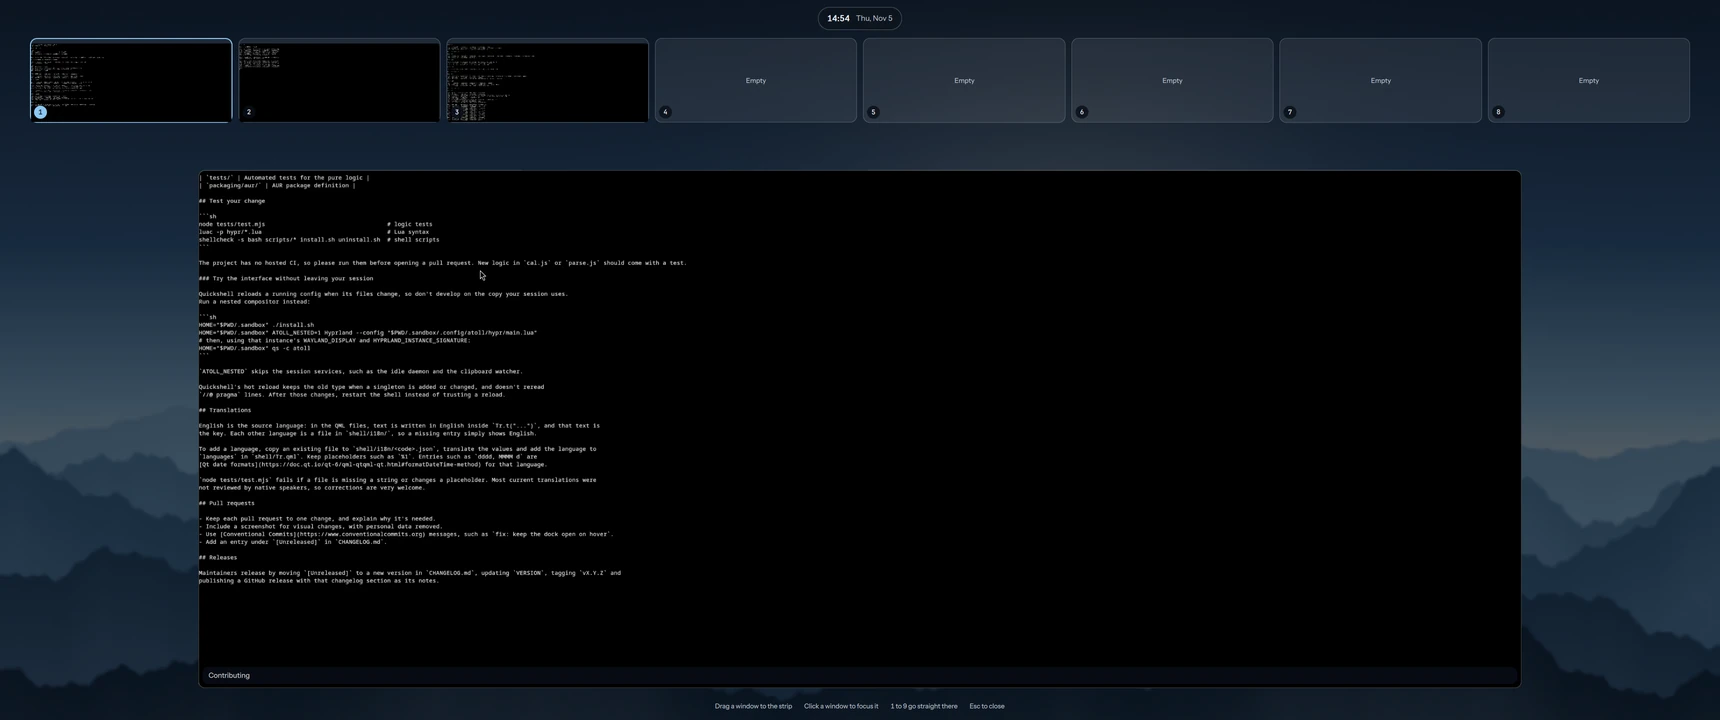
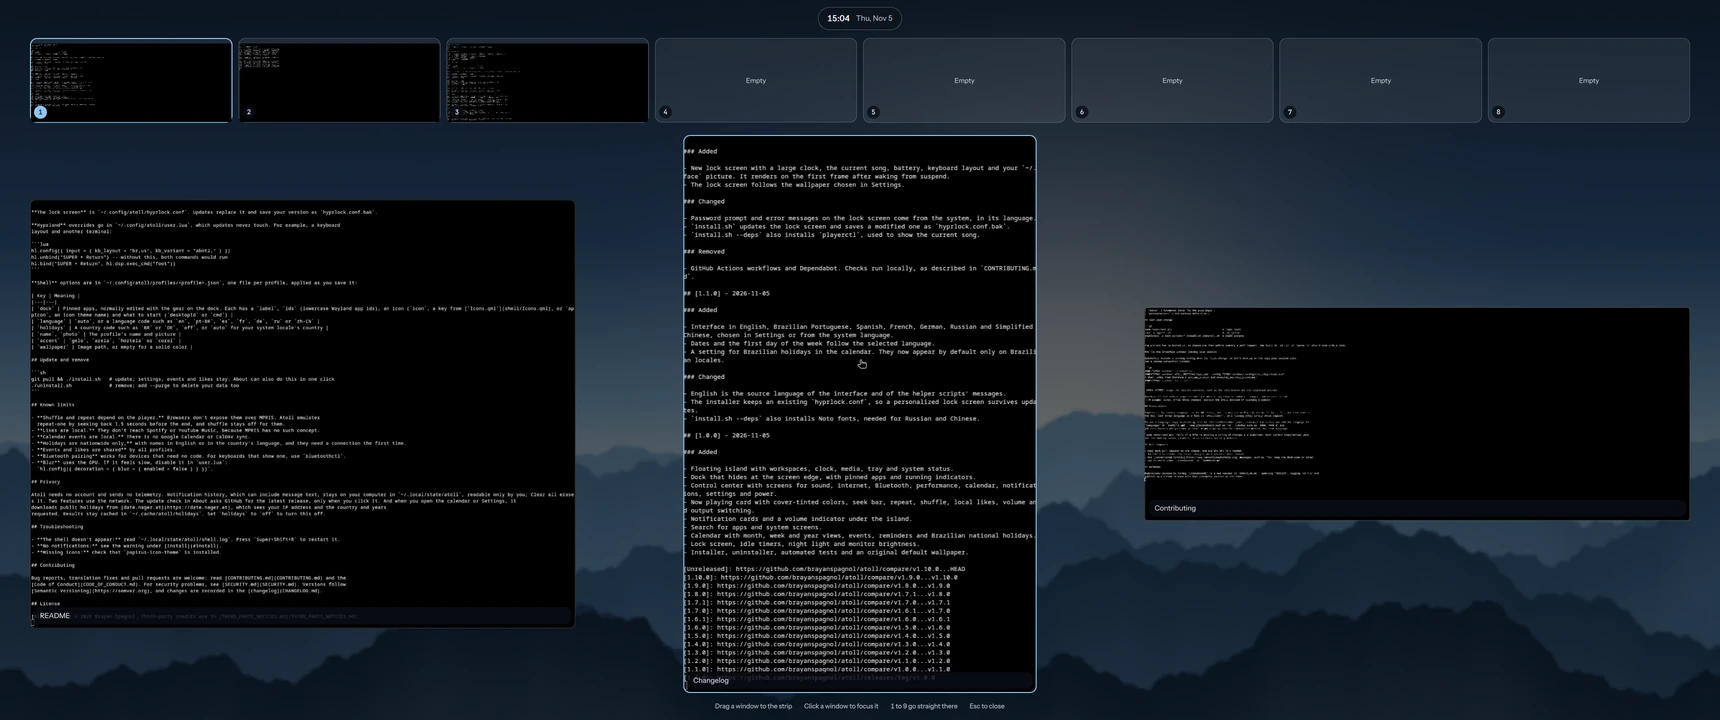
feat: animate the workspace overview and spread out overlapping windows

diff --git a/shell/Overview.qml b/shell/Overview.qml
@@ -5,20 +5,34 @@ import Quickshell.Hyprland
 import Quickshell.Io
 import Quickshell.Wayland
 import Quickshell.Widgets
+import "overview.js" as O
 
 // Workspaces in a strip, with the current one's windows spread out below. Super+O.
-LazyLoader {
-    active: Ui.overview && !!Ui.screen
+Scope {
+    id: overview
+    // Outlives Ui.overview by the closing animation; the window must exist to play it.
+    property bool alive: false
+    readonly property bool isOpen: Ui.overview
+    onIsOpenChanged: {
+        if (isOpen) { closing.stop(); alive = true }
+        else closing.restart()
+    }
+    Timer { id: closing; interval: 260; onTriggered: overview.alive = false }
+    LazyLoader {
+    active: overview.alive && !!Ui.screen
     PanelWindow {
         id: win
         screen: Ui.screen
         anchors { top: true; bottom: true; left: true; right: true }
         exclusionMode: ExclusionMode.Ignore
         WlrLayershell.layer: WlrLayer.Overlay
-        WlrLayershell.keyboardFocus: WlrKeyboardFocus.Exclusive
+        WlrLayershell.keyboardFocus: Ui.overview ? WlrKeyboardFocus.Exclusive : WlrKeyboardFocus.None
         WlrLayershell.namespace: "atoll-overview"
-        color: Theme.ground
+        color: "transparent"
 
+        // 0 is the desktop as it is, 1 the overview. Windows travel between their real place and the spread.
+        property real p: 0
+        Behavior on p { NumberAnimation { duration: 240; easing.type: Easing.OutCubic } }
         readonly property var mon: Hyprland.monitorFor(screen)
         readonly property real monW: (mon?.width ?? 1920) / (mon?.scale || 1)
         readonly property real monH: (mon?.height ?? 1080) / (mon?.scale || 1)
@@ -66,7 +80,7 @@ LazyLoader {
         }
         Timer { id: refresh; interval: 120; onTriggered: { clientList.running = false; clientList.running = true } }
         Connections { target: Hyprland; function onRawEvent() { refresh.restart() } }
-        Component.onCompleted: Hyprland.refreshToplevels()
+        Component.onCompleted: { Hyprland.refreshToplevels(); p = Qt.binding(() => Ui.overview ? 1 : 0) }
 
         // One window, in the same place it has on the screen. k scales screen pixels to this view.
         component Mini: ClippingRectangle {
@@ -90,27 +104,34 @@ LazyLoader {
                 anchors.fill: parent
                 captureSource: win.toplevelOf(mini.modelData)
                 live: mini.live
+                opacity: hasContent ? 1 : 0
+                Behavior on opacity { NumberAnimation { duration: 180 } }
             }
         }
 
-        Image {
+        Item {
             anchors.fill: parent
-            visible: !!win.wallpaper
-            source: win.wallpaper ? "file://" + win.wallpaper : ""
-            fillMode: Image.PreserveAspectCrop
-            // Decoded very small and stretched: a blur for free.
-            sourceSize: Qt.size(480, 270)
-            asynchronous: true
-            cache: false
+            opacity: win.p
+            Rectangle { anchors.fill: parent; color: Theme.ground }
+            Image {
+                anchors.fill: parent
+                visible: !!win.wallpaper
+                source: win.wallpaper ? "file://" + win.wallpaper : ""
+                fillMode: Image.PreserveAspectCrop
+                // Decoded very small and stretched: a blur for free.
+                sourceSize: Qt.size(480, 270)
+                asynchronous: true
+                cache: false
+            }
+            Rectangle { anchors.fill: parent; color: Qt.rgba(8 / 255, 14 / 255, 22 / 255, 0.55) }
         }
-        Rectangle { anchors.fill: parent; color: Qt.rgba(8 / 255, 14 / 255, 22 / 255, 0.55) }
-        MouseArea { anchors.fill: parent; onClicked: Ui.overview = false }
+        MouseArea { anchors.fill: parent; enabled: Ui.overview; onClicked: Ui.overview = false }
 
         Item {
             id: stage
             anchors.fill: parent
             focus: true
-            NumberAnimation on opacity { from: 0; to: 1; duration: 140; easing.type: Easing.OutCubic }
+            enabled: Ui.overview
             Keys.onEscapePressed: Ui.overview = false
             Keys.onReturnPressed: Ui.overview = false
             Keys.onLeftPressed: win.step(-1)
@@ -123,6 +144,7 @@ LazyLoader {
             Rectangle {
                 anchors { top: parent.top; topMargin: 14; horizontalCenter: parent.horizontalCenter }
                 implicitWidth: clockRow.implicitWidth + 36; implicitHeight: 46; radius: 23
+                opacity: win.p
                 color: Qt.rgba(12 / 255, 18 / 255, 26 / 255, 0.62)
                 border.width: 1; border.color: Theme.lineStrong
                 SystemClock { id: clock; precision: SystemClock.Minutes }
@@ -138,6 +160,8 @@ LazyLoader {
                 id: strip
                 anchors { left: parent.left; right: parent.right; top: parent.top; topMargin: 76; leftMargin: 60; rightMargin: 60 }
                 spacing: 12
+                opacity: win.p
+                transform: Translate { y: -(strip.height + 90) * (1 - win.p) }
                 Repeater {
                     model: win.slots
                     Rectangle {
@@ -178,35 +202,41 @@ LazyLoader {
             Item {
                 id: area
                 anchors { left: parent.left; right: parent.right; top: strip.bottom; bottom: hints.top; margins: 60; topMargin: 24; bottomMargin: 18 }
-                readonly property real k: Math.min(width / win.monW, height / win.monH)
-                readonly property real ox: (width - win.monW * k) / 2
-                readonly property real oy: (height - win.monH * k) / 2
-                Tx { visible: win.windowsOf(win.shown).length === 0; anchors.centerIn: parent; text: Tr.t("No windows on this workspace"); dim: true; size: 18 }
+                readonly property var windows: win.windowsOf(win.shown)
+                readonly property var rects: O.spread(windows.map(c => ({ x: c.at[0] - (win.mon?.x ?? 0), y: c.at[1] - (win.mon?.y ?? 0), w: c.size[0], h: c.size[1] })), win.monW, win.monH, width, height, 24)
+                Tx { visible: area.windows.length === 0; opacity: win.p; anchors.centerIn: parent; text: Tr.t("No windows on this workspace"); dim: true; size: 18 }
                 Repeater {
-                    model: win.windowsOf(win.shown)
+                    model: area.windows
                     Item {
                         id: spread
                         required property var modelData
-                        x: area.ox + (modelData.at[0] - (win.mon?.x ?? 0)) * area.k
-                        y: area.oy + (modelData.at[1] - (win.mon?.y ?? 0)) * area.k
-                        width: modelData.size[0] * area.k
-                        height: modelData.size[1] * area.k
+                        required property int index
+                        readonly property var rect: area.rects[index] ?? { x: 0, y: 0, w: modelData.size[0], h: modelData.size[1] }
+                        readonly property real zoom: 1 + (rect.w / modelData.size[0] - 1) * win.p
+                        readonly property real realX: modelData.at[0] - (win.mon?.x ?? 0)
+                        readonly property real realY: modelData.at[1] - (win.mon?.y ?? 0)
+                        x: (realX - area.x) * (1 - win.p) + rect.x * win.p
+                        y: (realY - area.y) * (1 - win.p) + rect.y * win.p
+                        width: modelData.size[0] * zoom
+                        height: modelData.size[1] * zoom
                         activeFocusOnTab: true
                         Accessible.role: Accessible.Button
                         Accessible.name: modelData.title
                         Keys.onReturnPressed: win.focusWindow(modelData)
                         Keys.onSpacePressed: win.focusWindow(modelData)
-                        Mini { modelData: spread.modelData; k: area.k; x: 0; y: 0; live: true }
+                        Mini { modelData: spread.modelData; k: spread.zoom; x: 0; y: 0; live: true }
                         Rectangle {
                             anchors.fill: parent
-                            radius: Math.max(4, 16 * area.k)
+                            radius: Math.max(4, 16 * spread.zoom)
                             color: "transparent"
+                            opacity: win.p
                             border.width: pick.containsMouse || spread.activeFocus ? 2 : 1
                             border.color: spread.activeFocus ? Theme.ink : pick.containsMouse ? Theme.accent : Theme.lineStrong
                         }
                         Rectangle {
                             anchors { left: parent.left; right: parent.right; bottom: parent.bottom; margins: 8 }
                             implicitHeight: 34; radius: 12
+                            opacity: win.p
                             color: Qt.rgba(8 / 255, 14 / 255, 22 / 255, 0.82)
                             Tx { anchors.fill: parent; anchors.leftMargin: 12; anchors.rightMargin: 12; text: spread.modelData.title || spread.modelData.class; size: 14 }
                         }
@@ -249,6 +279,7 @@ LazyLoader {
                 id: hints
                 anchors { bottom: parent.bottom; bottomMargin: 20; horizontalCenter: parent.horizontalCenter }
                 spacing: 24
+                opacity: win.p
                 Repeater {
                     model: [Tr.t("Drag a window to the strip"), Tr.t("Click a window to focus it"), Tr.t("1 to 9 go straight there"), Tr.t("Esc to close")]
                     Tx { required property string modelData; text: modelData; dim: true; size: 13 }
@@ -266,5 +297,6 @@ LazyLoader {
                 Tx { anchors.fill: parent; anchors.margins: 12; text: ghost.title; size: 14 }
             }
         }
+    }
     }
 }

diff --git a/shell/overview.js b/shell/overview.js
@@ -1,0 +1,47 @@
+.pragma library
+
+function overlapping(list) {
+    for (let i = 0; i < list.length; i++) {
+        for (let j = i + 1; j < list.length; j++) {
+            const a = list[i], b = list[j]
+            const w = Math.min(a.x + a.w, b.x + b.w) - Math.max(a.x, b.x)
+            const h = Math.min(a.y + a.h, b.y + b.h) - Math.max(a.y, b.y)
+            if (w > 0 && h > 0 && w * h > 0.1 * Math.min(a.w * a.h, b.w * b.h)) return true
+        }
+    }
+    return false
+}
+
+// Where each window goes in the overview, in an area of areaW x areaH.
+// Tiled windows keep their arrangement. Overlapping ones (maximized, floating) go in a grid, or some would stay hidden.
+function spread(list, screenW, screenH, areaW, areaH, gap) {
+    if (!list.length) return []
+    if (!overlapping(list)) {
+        const k = Math.min(areaW / screenW, areaH / screenH)
+        const ox = (areaW - screenW * k) / 2, oy = (areaH - screenH * k) / 2
+        return list.map(r => ({ x: ox + r.x * k, y: oy + r.y * k, w: r.w * k, h: r.h * k }))
+    }
+    // The column count that leaves cells closest to the shape of the windows.
+    const shape = list.reduce((sum, r) => sum + r.w / r.h, 0) / list.length
+    let cols = 1, best = Infinity
+    for (let c = 1; c <= list.length; c++) {
+        const rows = Math.ceil(list.length / c)
+        const cell = ((areaW - gap * (c - 1)) / c) / ((areaH - gap * (rows - 1)) / rows)
+        const miss = Math.abs(Math.log(cell / shape))
+        if (miss < best) { best = miss; cols = c }
+    }
+    const rows = Math.ceil(list.length / cols)
+    const cellW = (areaW - gap * (cols - 1)) / cols, cellH = (areaH - gap * (rows - 1)) / rows
+    return list.map((r, i) => {
+        const row = Math.floor(i / cols), inRow = row === rows - 1 ? list.length - cols * (rows - 1) : cols
+        const k = Math.min(cellW / r.w, cellH / r.h)
+        // A shorter last row stays centered.
+        const startX = (areaW - inRow * cellW - (inRow - 1) * gap) / 2
+        const col = i - row * cols
+        return {
+            x: startX + col * (cellW + gap) + (cellW - r.w * k) / 2,
+            y: row * (cellH + gap) + (cellH - r.h * k) / 2,
+            w: r.w * k, h: r.h * k
+        }
+    })
+}
